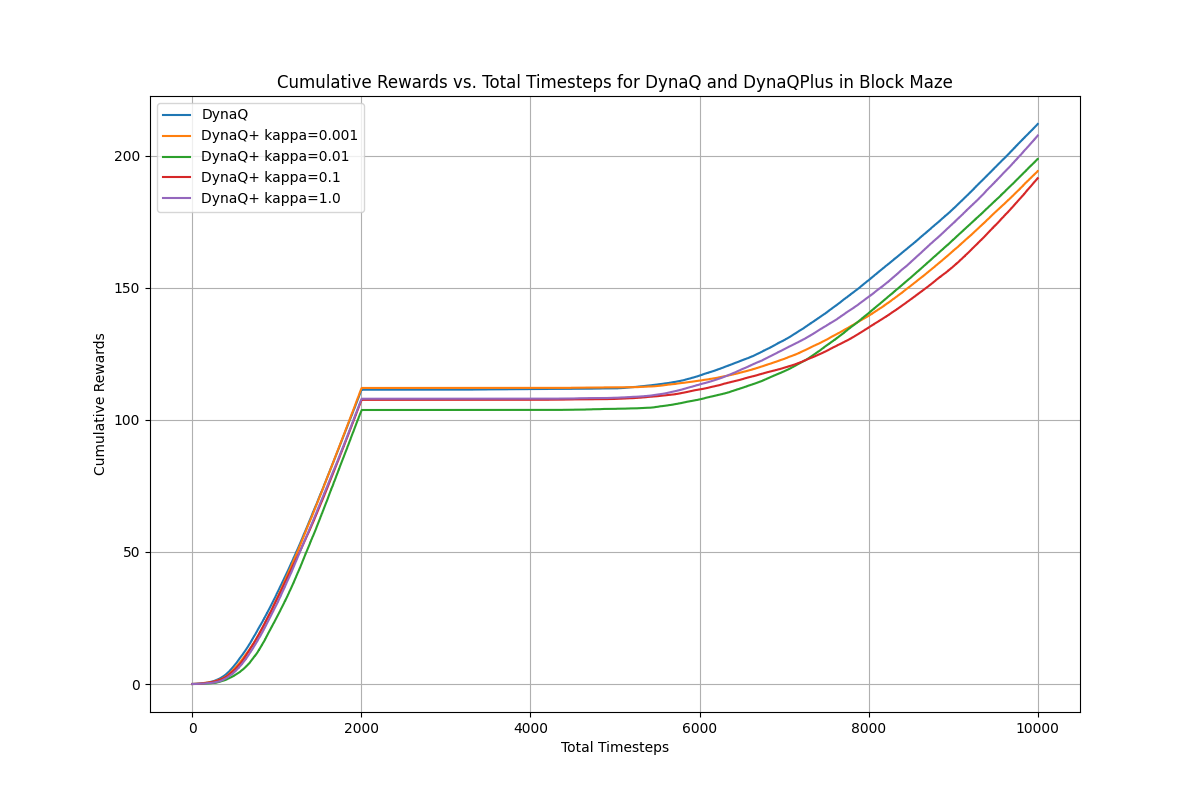
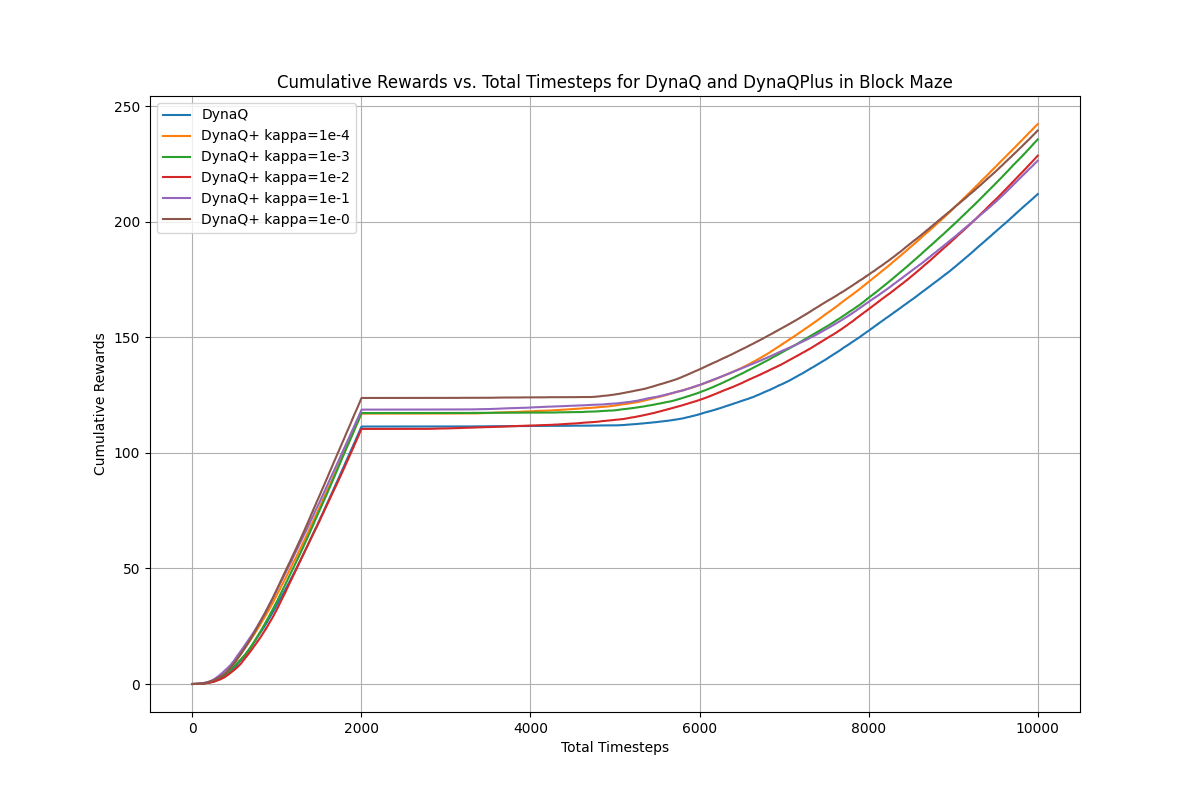
block maze

diff --git a/experiments/block_maze/dyna_q&dyna_q_plus.py b/experiments/block_maze/dyna_q&dyna_q_plus.py
@@ -91,6 +91,17 @@ if __name__ == '__main__':
     change_time_step = 2000
     start_position = (5, 3)
     goal_position = (0, 8)
+    total_timesteps = 10000  # Set the total timesteps limit
+
+    # Simpler Maze setup for debug
+    # height = 3
+    # width = 4
+    # original_walls = [(1, 0), (1, 1), (1, 2)]  # Initial wall positions
+    # new_walls = [(1, 1), (1, 2), (1, 3)]  # Walls after change
+    # change_time_step = 200
+    # start_position = (2, 1)
+    # goal_position = (0, 3)
+    # total_timesteps = 1000  # Set the total timesteps limit
 
     print("The Block Maze environment")
     env = DynamicMaze(
@@ -106,15 +117,15 @@ if __name__ == '__main__':
     env.render()
 
     ##### Solve the Problem using DynaQ and DynaQPlus #####
-    total_timesteps = 10000  # Set the total timesteps limit
     num_runs = 50
 
     agents = {
         "DynaQ": DynaQWithLogging(env=env, gamma=0.95, epsilon=0.1, alpha=0.1, planning_steps=5),
-        "DynaQ+ kappa=0.001": DynaQPlusWithLogging(env=env, gamma=0.95, epsilon=0.1, alpha=0.1, planning_steps=5, kappa=0.001),
-        "DynaQ+ kappa=0.01": DynaQPlusWithLogging(env=env, gamma=0.95, epsilon=0.1, alpha=0.1, planning_steps=5, kappa=0.01),
-        "DynaQ+ kappa=0.1": DynaQPlusWithLogging(env=env, gamma=0.95, epsilon=0.1, alpha=0.1, planning_steps=5, kappa=0.1),
-        "DynaQ+ kappa=1.0": DynaQPlusWithLogging(env=env, gamma=0.95, epsilon=0.1, alpha=0.1, planning_steps=5, kappa=1.0),
+        "DynaQ+ kappa=1e-4": DynaQPlusWithLogging(env=env, gamma=0.95, epsilon=0.1, alpha=0.1, planning_steps=5, kappa=1e-4),
+        "DynaQ+ kappa=1e-3": DynaQPlusWithLogging(env=env, gamma=0.95, epsilon=0.1, alpha=0.1, planning_steps=5, kappa=1e-3),
+        "DynaQ+ kappa=1e-2": DynaQPlusWithLogging(env=env, gamma=0.95, epsilon=0.1, alpha=0.1, planning_steps=5, kappa=1e-2),
+        "DynaQ+ kappa=1e-1": DynaQPlusWithLogging(env=env, gamma=0.95, epsilon=0.1, alpha=0.1, planning_steps=5, kappa=1e-1),
+        "DynaQ+ kappa=1e-0": DynaQPlusWithLogging(env=env, gamma=0.95, epsilon=0.1, alpha=0.1, planning_steps=5, kappa=1.0),
     }
 
     cumulative_rewards_results = {}

diff --git a/traditional_algos/planing_and_learning_methods/dyna_q_plus.py b/traditional_algos/planing_and_learning_methods/dyna_q_plus.py
@@ -49,14 +49,8 @@ class DynaQPlus(DynaQ):
                 continue
 
             # Randomly pick a state and action
-            state = self.env.choose_random_state()
-            action = np.random.choice(np.arange(self.num_action))
-
-            # Check if this (state, action) pair is in the model, if not initialize it
-            if (state, action) not in self.model:
-                next_state = state  # Initial assumption: leads back to the same state
-                reward = 0  # Initial assumption: reward is zero
-                self.model[(state, action)] = (next_state, reward)
+            state, action = list(self.model.keys())[np.random.randint(len(self.model))]
+            # action = np.random.choice(np.arange(self.num_action))
             
             next_state, reward = self.model[(state, action)]
 
@@ -82,6 +76,13 @@ class DynaQPlus(DynaQ):
 
                     # Store the experience in the model
                     self.model[(state, action)] = (next_state, reward)
+                    # Initialize other actions for the current state if they haven't been tried yet
+                    for a in range(self.num_action):
+                        # Check if this (state, action) pair is in the model, if not initialize it
+                        if (state, a) not in self.model:
+                            next_state = state  # Initial assumption: leads back to the same state
+                            reward = 0  # Initial assumption: reward is zero
+                            self.model[(state, a)] = (next_state, reward)
 
                     # Improve policy based on new Q values
                     self.improve_policy(state)

diff --git a/experiments/block_maze/dyna_q&dyna_q_plus.md b/experiments/block_maze/dyna_q&dyna_q_plus.md
@@ -1,6 +1,9 @@
 **Use Dyna Q and Dyna Q+ to solve Blocked Maze**
 
-An interesting issue in the Block Maze environment is that the agent may end up at the position of a new wall right when the walls are about to be updated. To avoid this, I implemented a delay in the update until the agent moves out of the new wall's position.
+In this experiment, it can be observed that Dyna Q+ consistently outperforms Dyna Q when $\kappa$ is set within a broad range. Interestingly, setting $\kappa$ to values such as 1e-0 and 1e-4 achieved better results, while the intermediate values yielded slightly weaker performance. The specific reason for this phenomenon has not yet been fully investigated.
+
+Additionally, I initially made an error by sampling from all states instead of just the encountered states during the planning part, which caused Dyna Q+ to perform worse than Dyna Q. The underlying reason for this issue is still under exploration.
+
+An interesting situation in the Blocked Maze environment is that the agent may find itself at the position of a new wall just as the walls are about to be updated. To handle this, I implemented a delay in updating the walls until the agent moves out of the new wall's position.
 
 TODO: Exercise 8.4 in the RL Book.
-
